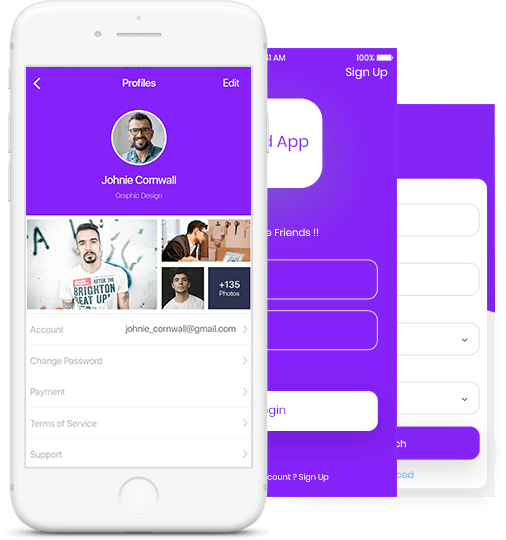
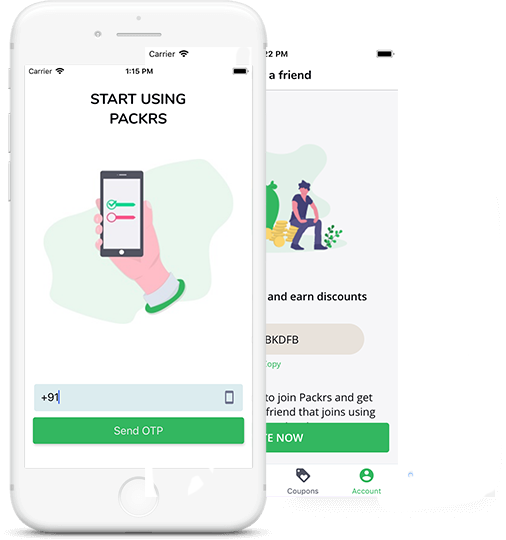
added real images

diff --git a/src/html.js b/src/html.js
@@ -16,26 +16,12 @@ export default class HTML extends React.Component {
             href="https://fonts.googleapis.com/css?family=Nunito:300,400,500,600,700,800,900"
             rel="stylesheet"
           />
-          {/* <link
-            rel="stylesheet"
-            href="https://cdnjs.cloudflare.com/ajax/libs/bulma/0.7.2/css/bulma.min.css"
-          />
-      
-          <link
-            href="https://fonts.googleapis.com/css?family=Open+Sans:300,400,500,600,700,800,900"
-            rel="stylesheet"
-          /> */}
-          {/* <link
-            href="https://fonts.googleapis.com/css?family=Open+Sans:300,400,500,600,700,800,900"
-            rel="stylesheet"
-          /> */}
+
           <link rel="stylesheet" href="/css/bootstrap.min.css" />
           <link rel="stylesheet" href="/css/jquery-ui.css" />
           <link rel="stylesheet" href="/css/font-awesome.min.css" />
           <link rel="stylesheet" href="/css/owl.carousel.min.css" />
           <link rel="stylesheet" href="/css/slicknav.min.css" />
-          <link rel="stylesheet" href="/css/magnificpopup.css" />
-          <link rel="stylesheet" href="/css/jquery.mb.YTPlayer.min.css" />
           <link rel="stylesheet" href="/css/typography.css" />
           <link rel="stylesheet" href="/css/style.css" />
           <link rel="stylesheet" href="/css/responsive.css" />
@@ -67,7 +53,6 @@ export default class HTML extends React.Component {
           <script src="/js/magnific-popup.min.js" />
           <script src="/js/counterup.js" />
           <script src="/js/jquery.waypoints.min.js" />
-          <script src="/js/jquery.mb.YTPlayer.min.js" />
           <script src="/js/theme.js" />
         </body>
       </html>

diff --git a/src/components/Slider.js b/src/components/Slider.js
@@ -73,25 +73,25 @@ class Slider extends React.Component {
           />
           <div className="screen-slider owl-carousel">
             <div className="single-screen">
-              <img src="/img/screen1.jpg" alt="mobile screen" />
+              <img src="/img/s1.png" alt="mobile screen" />
             </div>
             <div className="single-screen">
-              <img src="/img/screen2.jpg" alt="mobile screen" />
+              <img src="/img/s2.png" alt="mobile screen" />
             </div>
             <div className="single-screen">
-              <img src="/img/screen3.jpg" alt="mobile screen" />
+              <img src="/img/s3.png" alt="mobile screen" />
             </div>
             <div className="single-screen">
-              <img src="/img/screen4.jpg" alt="mobile screen" />
+              <img src="/img/s4.png" alt="mobile screen" />
             </div>
             <div className="single-screen">
-              <img src="/img/screen5.jpg" alt="mobile screen" />
+              <img src="/img/s5.png" alt="mobile screen" />
             </div>
             <div className="single-screen">
-              <img src="/img/screen3.jpg" alt="mobile screen" />
+              <img src="/img/s6.png" alt="mobile screen" />
             </div>
             <div className="single-screen">
-              <img src="/img/screen4.jpg" alt="mobile screen" />
+              <img src="/img/s7.png" alt="mobile screen" />
             </div>
           </div>
         </div>

diff --git a/src/components/AppDownload.js b/src/components/AppDownload.js
@@ -12,8 +12,8 @@ const Container = styled.div`
   }
   .download-btns a:hover {
     background-color: #fff;
-    color:#33b760 !important;
-}
+    color: #33b760 !important;
+  }
 `;
 
 const AppDownload = () => (
@@ -25,11 +25,11 @@ const AppDownload = () => (
           <p>Our app is available both on android and ios platforms</p>
         </div>
         <div className="download-btns btn-area text-center">
-          <a onClick={() => swal ('Coming soon !')}>
+          <a onClick={() => swal('Coming soon !')}>
             <i className="fab fa-google-play" />play store
           </a>
 
-          <a onClick={() => swal ('Coming soon !')}>
+          <a onClick={() => swal('Coming soon !')}>
             <i className="fab fa-apple" />app store
           </a>
         </div>

diff --git a/src/components/Subscription.js b/src/components/Subscription.js
@@ -19,6 +19,9 @@ const Container = styled.section`
   .c-social ul li a {
     background-color: #33b760 !important;
   }
+  .message {
+    position: absolute;
+  }
 `;
 
 class Subscription extends React.Component {
@@ -72,9 +75,7 @@ class Subscription extends React.Component {
 
                   <input type="submit" value="Subscribe" id="send" />
                   <br />
-                  <span className="has-text-white has-text-centered message is-primary">
-                    {message}
-                  </span>
+                  <span className="message">{message}</span>
                 </form>
               </div>
             </div>

diff --git a/src/pages/index.js b/src/pages/index.js
@@ -4,7 +4,6 @@ import config from '../utils/config';
 import Seo from '../components/Seo';
 import Layout from '../components/Layout';
 import HomeHero from '../components/HomeHero';
-import Subscribe from '../components/Subscribe';
 import ServiceArea from '../components/ServiceArea';
 import AboutArea from '../components/AboutArea';
 import Features from '../components/Features';
